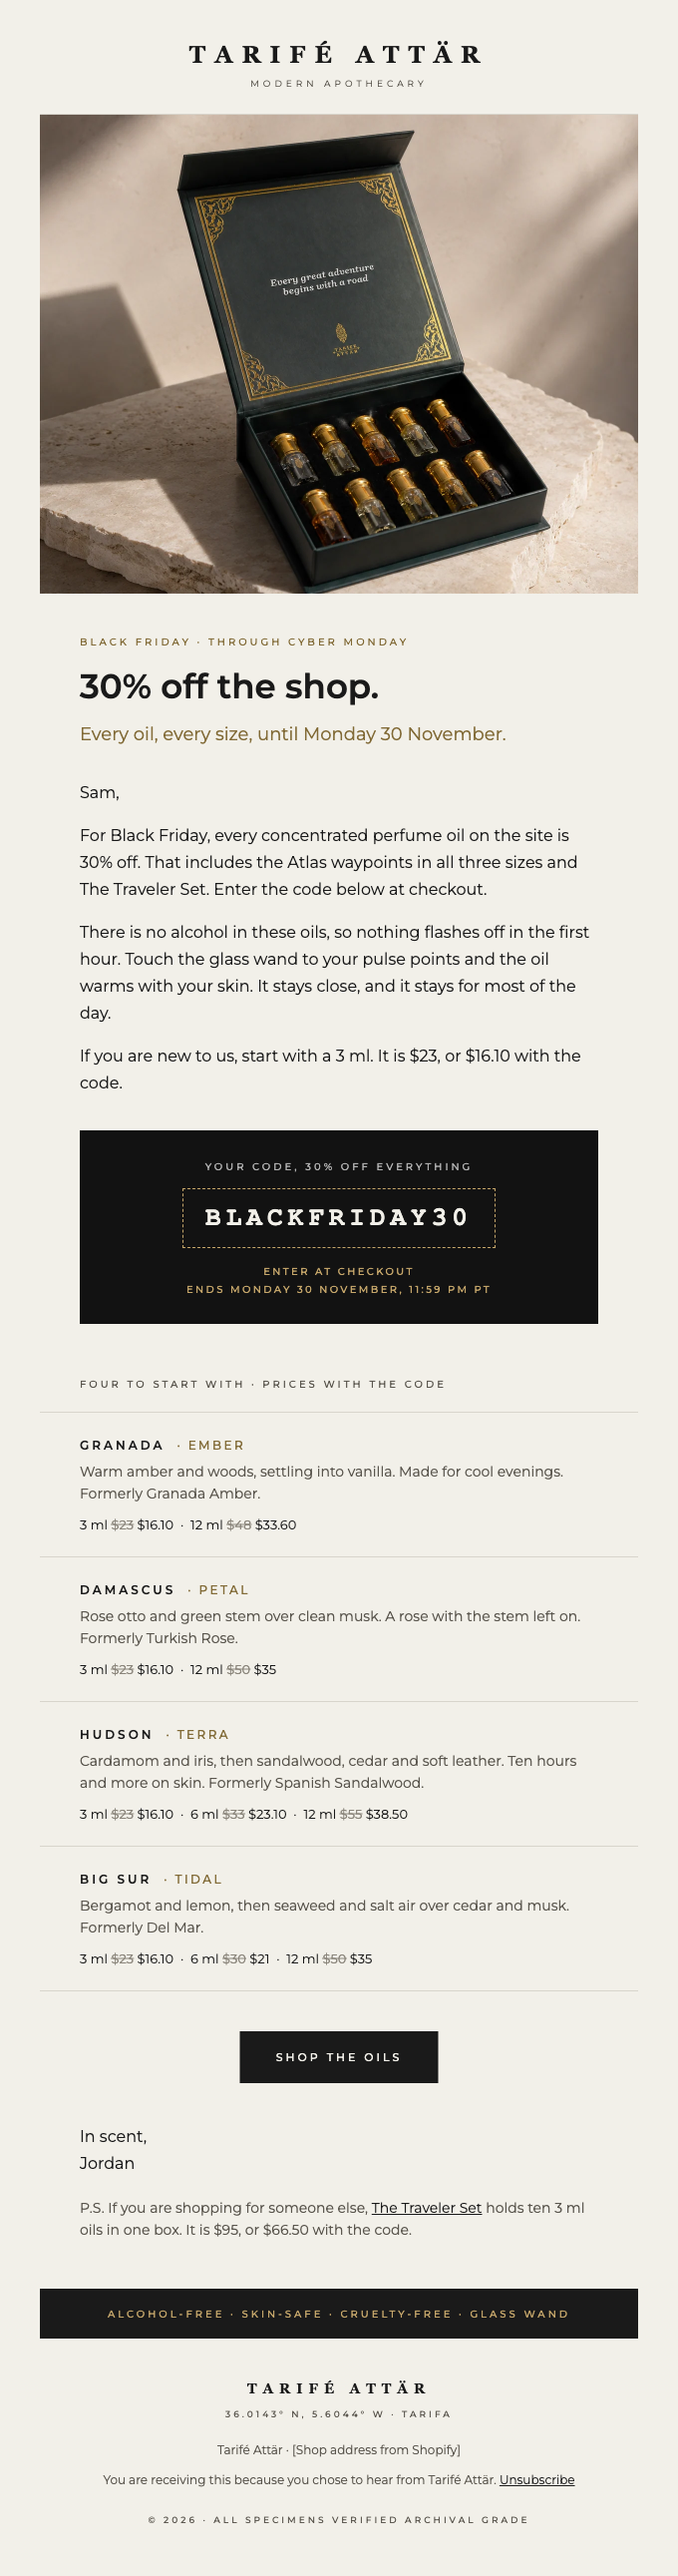
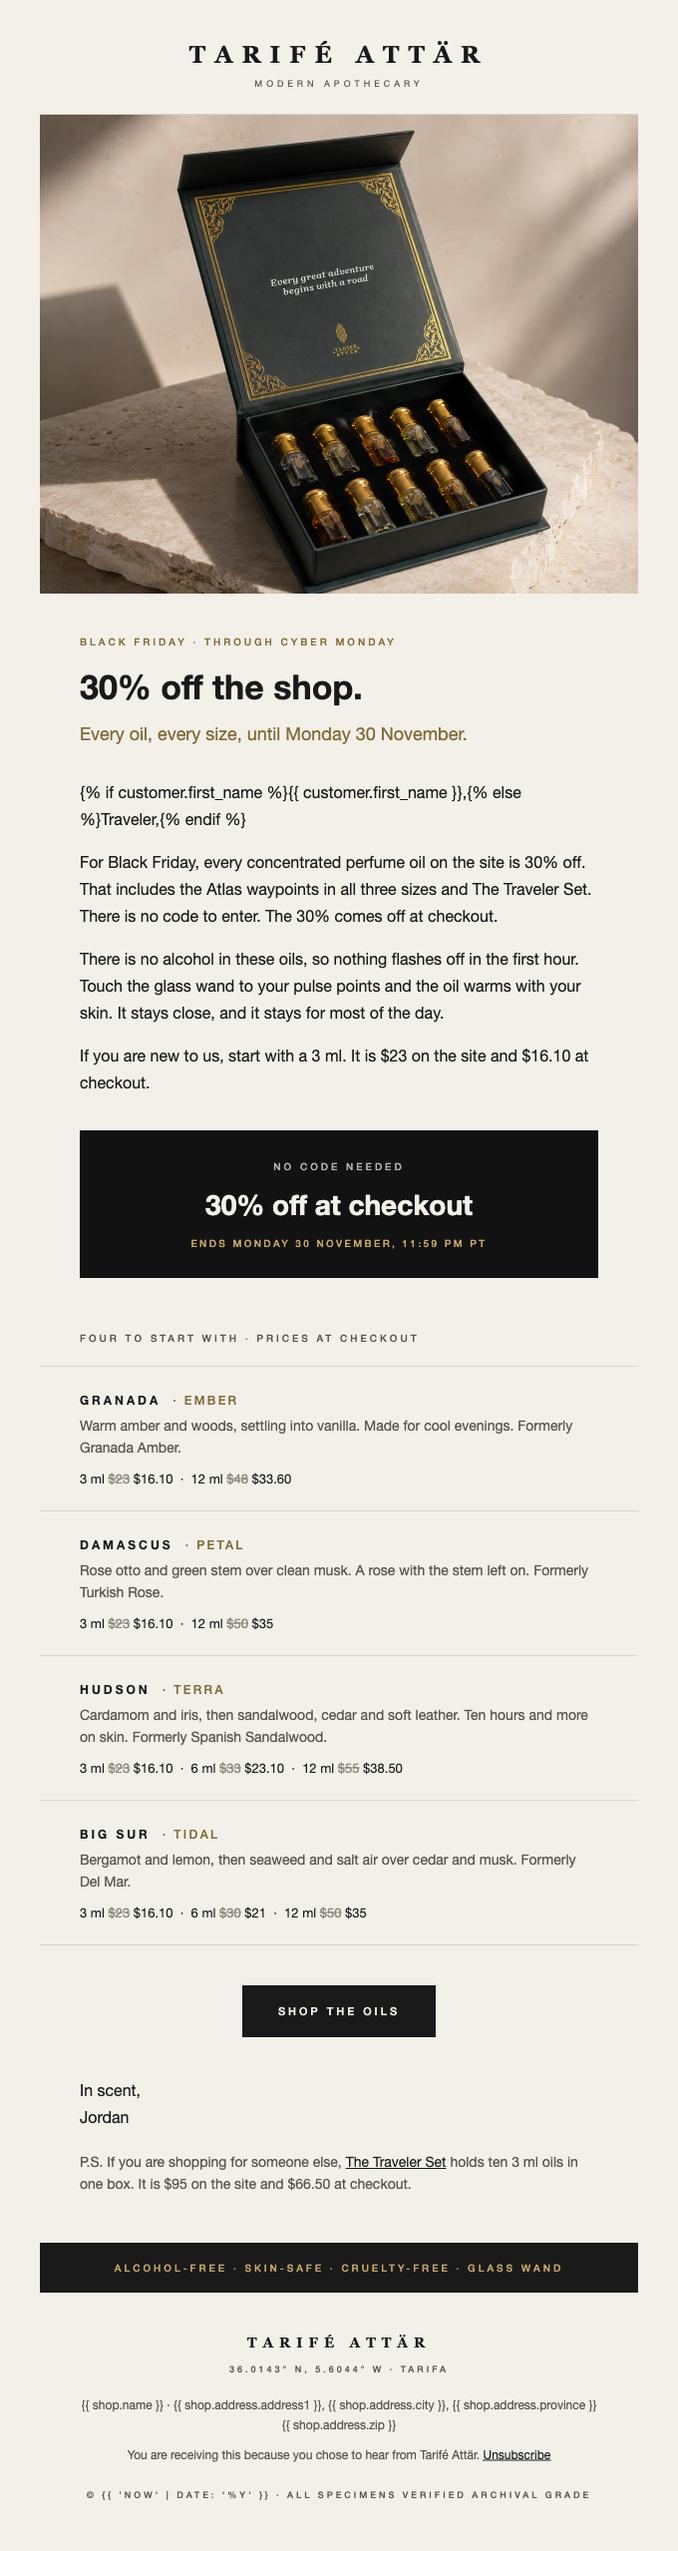
Black Friday email: the 30% is automatic, no code
The discount is now an automatic Shopify discount (30% off the whole
order, ends 30 November 11:59 PM PT), so the email drops BLACKFRIDAY30.
The code box becomes a plain offer band, and prices say "at checkout",
since the site and satchel still show full prices until checkout.

diff --git a/campaigns/2026-11-27-black-friday/tarife-attar-black-friday-2026.html b/campaigns/2026-11-27-black-friday/tarife-attar-black-friday-2026.html
@@ -18,7 +18,7 @@
     .wrap { width:100% !important; max-width:100% !important; }
     .pad { padding-left:24px !important; padding-right:24px !important; }
     .display { font-size:30px !important; line-height:38px !important; }
-    .code { font-size:22px !important; letter-spacing:3px !important; }
+    .offer { font-size:22px !important; line-height:30px !important; }
   }
 </style>
 </head>
@@ -26,7 +26,7 @@
 
 <!-- Preheader, hidden. The trailing spacers stop the inbox preview from pulling in body text. -->
 <div style="display:none; font-size:1px; line-height:1px; max-height:0; max-width:0; opacity:0; overflow:hidden; mso-hide:all; color:#F2F0E9;">
-  Every oil on the site. Code BLACKFRIDAY30. Ends Monday 30 November, 11:59 PM PT.&#847;&zwnj;&nbsp;&#847;&zwnj;&nbsp;&#847;&zwnj;&nbsp;&#847;&zwnj;&nbsp;&#847;&zwnj;&nbsp;&#847;&zwnj;&nbsp;&#847;&zwnj;&nbsp;&#847;&zwnj;&nbsp;&#847;&zwnj;&nbsp;&#847;&zwnj;&nbsp;&#847;&zwnj;&nbsp;&#847;&zwnj;&nbsp;&#847;&zwnj;&nbsp;&#847;&zwnj;&nbsp;&#847;&zwnj;&nbsp;&#847;&zwnj;&nbsp;&#847;&zwnj;&nbsp;&#847;&zwnj;&nbsp;&#847;&zwnj;&nbsp;&#847;&zwnj;&nbsp;
+  Every oil on the site. No code needed. Ends Monday 30 November, 11:59 PM PT.&#847;&zwnj;&nbsp;&#847;&zwnj;&nbsp;&#847;&zwnj;&nbsp;&#847;&zwnj;&nbsp;&#847;&zwnj;&nbsp;&#847;&zwnj;&nbsp;&#847;&zwnj;&nbsp;&#847;&zwnj;&nbsp;&#847;&zwnj;&nbsp;&#847;&zwnj;&nbsp;&#847;&zwnj;&nbsp;&#847;&zwnj;&nbsp;&#847;&zwnj;&nbsp;&#847;&zwnj;&nbsp;&#847;&zwnj;&nbsp;&#847;&zwnj;&nbsp;&#847;&zwnj;&nbsp;&#847;&zwnj;&nbsp;&#847;&zwnj;&nbsp;&#847;&zwnj;&nbsp;
 </div>
 
 <table role="presentation" width="100%" cellpadding="0" cellspacing="0" border="0" bgcolor="#F2F0E9" style="width:100%; background-color:#F2F0E9;">
@@ -81,37 +81,30 @@
               {% if customer.first_name %}{{ customer.first_name }},{% else %}Traveler,{% endif %}
             </div>
             <div style="font-family:'Montserrat','Helvetica Neue',Helvetica,Arial,sans-serif; font-size:16px; line-height:27px; color:#1A1A1A; padding-top:16px;">
-              For Black Friday, every concentrated perfume oil on the site is 30% off. That includes the Atlas waypoints in all three sizes and The Traveler Set. Enter the code below at checkout.
+              For Black Friday, every concentrated perfume oil on the site is 30% off. That includes the Atlas waypoints in all three sizes and The Traveler Set. There is no code to enter. The 30% comes off at checkout.
             </div>
             <div style="font-family:'Montserrat','Helvetica Neue',Helvetica,Arial,sans-serif; font-size:16px; line-height:27px; color:#1A1A1A; padding-top:16px;">
               There is no alcohol in these oils, so nothing flashes off in the first hour. Touch the glass wand to your pulse points and the oil warms with your skin. It stays close, and it stays for most of the day.
             </div>
             <div style="font-family:'Montserrat','Helvetica Neue',Helvetica,Arial,sans-serif; font-size:16px; line-height:27px; color:#1A1A1A; padding-top:16px;">
-              If you are new to us, start with a 3 ml. It is $23, or $16.10 with the code.
+              If you are new to us, start with a 3 ml. It is $23 on the site and $16.10 at checkout.
             </div>
           </td>
         </tr>
 
-        <!-- Code band, ink on bone: the one contrast band -->
+        <!-- Offer band, ink on bone: the one contrast band. The discount is automatic, so no code box. -->
         <tr>
           <td class="pad" align="center" bgcolor="#F2F0E9" style="text-align:center; background-color:#F2F0E9; padding:34px 40px 0 40px;">
             <table role="presentation" width="100%" cellpadding="0" cellspacing="0" border="0" bgcolor="#121212" style="width:100%; background-color:#121212;">
               <tr>
                 <td align="center" bgcolor="#121212" style="text-align:center; background-color:#121212; padding:28px 24px 26px 24px;">
                   <div style="font-family:'Montserrat','Helvetica Neue',Helvetica,Arial,sans-serif; font-size:10px; font-weight:500; letter-spacing:3px; text-transform:uppercase; color:#B3B3B3; line-height:16px;">
-                    Your code, 30% off everything
+                    No code needed
                   </div>
-                  <table role="presentation" cellpadding="0" cellspacing="0" border="0" align="center" style="margin:14px auto 0 auto;">
-                    <tr>
-                      <td align="center" style="text-align:center; border:1px dashed #C5A66A; padding:14px 22px;">
-                        <div class="code" style="font-family:'Courier New',Courier,monospace; font-weight:bold; font-size:26px; letter-spacing:5px; color:#F2F0E9; line-height:30px;">
-                          BLACKFRIDAY30
-                        </div>
-                      </td>
-                    </tr>
-                  </table>
-                  <div style="font-family:'Montserrat','Helvetica Neue',Helvetica,Arial,sans-serif; font-size:10px; font-weight:500; letter-spacing:2.4px; text-transform:uppercase; color:#C5A66A; line-height:18px; padding-top:14px;">
-                    Enter at checkout<br>
+                  <div class="offer" style="font-family:'Montserrat','Helvetica Neue',Helvetica,Arial,sans-serif; font-weight:600; font-size:28px; line-height:36px; color:#F2F0E9; padding-top:12px;">
+                    30% off at checkout
+                  </div>
+                  <div style="font-family:'Montserrat','Helvetica Neue',Helvetica,Arial,sans-serif; font-size:10px; font-weight:500; letter-spacing:2.4px; text-transform:uppercase; color:#C5A66A; line-height:18px; padding-top:12px;">
                     Ends Monday 30 November, 11:59 PM PT
                   </div>
                 </td>
@@ -124,7 +117,7 @@
         <tr>
           <td class="pad" align="left" bgcolor="#F2F0E9" style="text-align:left; background-color:#F2F0E9; padding:52px 40px 6px 40px; border-bottom:1px solid #D8D5CC;">
             <div style="font-family:'Montserrat','Helvetica Neue',Helvetica,Arial,sans-serif; font-size:10px; font-weight:500; letter-spacing:3px; text-transform:uppercase; color:#5A564E; line-height:16px; padding-bottom:14px;">
-              Four to start with &middot; Prices with the code
+              Four to start with &middot; Prices at checkout
             </div>
           </td>
         </tr>
@@ -216,7 +209,7 @@
               Jordan
             </div>
             <div style="font-family:'Montserrat','Helvetica Neue',Helvetica,Arial,sans-serif; font-size:14px; line-height:22px; color:#5A564E; padding-top:20px;">
-              P.S. If you are shopping for someone else, <a href="https://www.tarifeattar.com/product/the-traveler-set" style="color:#1A1A1A; text-decoration:underline;">The Traveler Set</a> holds ten 3 ml oils in one box. It is $95, or $66.50 with the code.
+              P.S. If you are shopping for someone else, <a href="https://www.tarifeattar.com/product/the-traveler-set" style="color:#1A1A1A; text-decoration:underline;">The Traveler Set</a> holds ten 3 ml oils in one box. It is $95 on the site and $66.50 at checkout.
             </div>
           </td>
         </tr>
